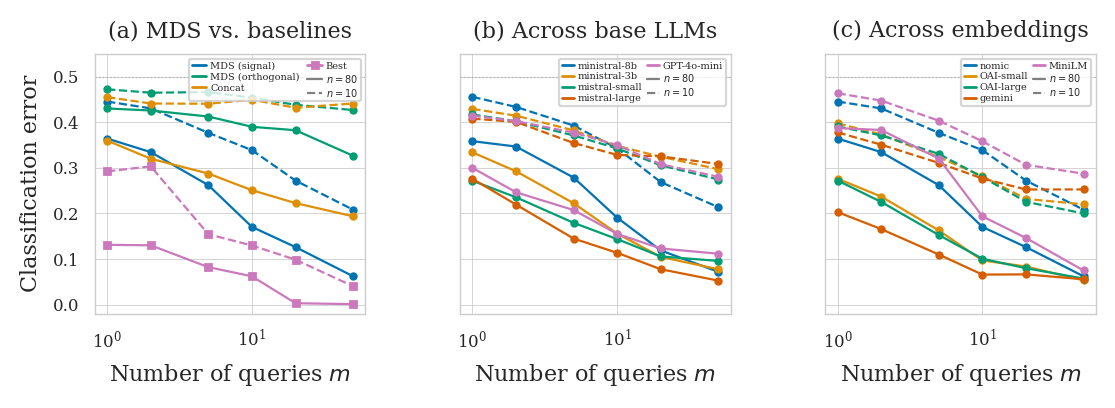
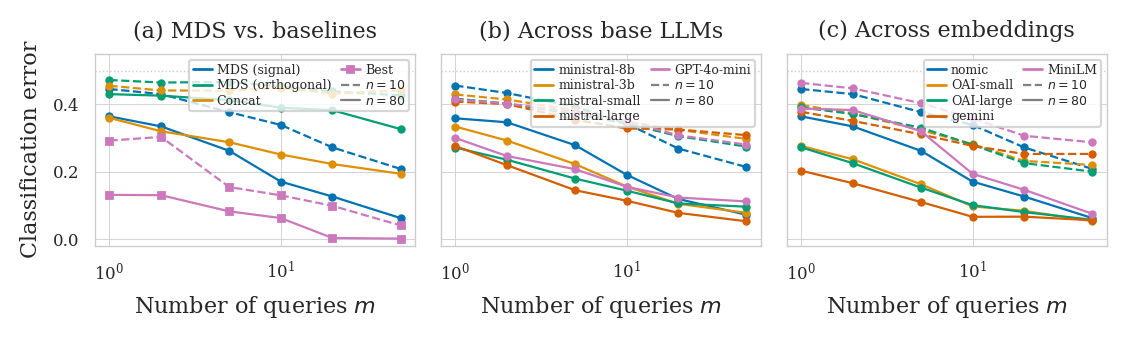
Match figure 4 style to figures 1 & 2
Switch to plt.subplots with matching layout params (figsize 5.5x1.6,
wspace=0.08). Flip legend order to n=10 before n=80. Remove manual
font size overrides, use style.py defaults.

diff --git a/scripts/plot_system_prompt_figure.py b/scripts/plot_system_prompt_figure.py
@@ -13,7 +13,6 @@ import matplotlib
 matplotlib.use("Agg")
 import matplotlib.pyplot as plt
 from matplotlib.lines import Line2D
-from matplotlib.gridspec import GridSpec
 from pathlib import Path
 
 from bbo.plotting.style import set_paper_style, PALETTE
@@ -108,12 +107,8 @@ def plot_figure(csv_path, embed_csv_path=None, oracle_csv_path=None,
 
     df = pd.read_csv(csv_path)
 
-    fig = plt.figure(figsize=(5.5, 2.0))
-    gs = GridSpec(1, 3, figure=fig, left=0.08, right=0.99, bottom=0.20, top=0.85,
-                  wspace=0.35)
-    ax_a = fig.add_subplot(gs[0, 0])
-    ax_b = fig.add_subplot(gs[0, 1])
-    ax_c = fig.add_subplot(gs[0, 2])
+    fig, (ax_a, ax_b, ax_c) = plt.subplots(1, 3, figsize=(5.5, 1.6))
+    fig.subplots_adjust(left=0.07, right=0.99, bottom=0.22, top=0.82, wspace=0.08)
 
     n_styles = {80: "-", 10: "--"}
 
@@ -153,9 +148,9 @@ def plot_figure(csv_path, embed_csv_path=None, oracle_csv_path=None,
     if oracle_csv_path and Path(oracle_csv_path).exists():
         leg_methods.append(Line2D([0], [0], color=PALETTE[4], lw=1, marker="s",
                                   markersize=2, label="Best"))
-    leg_n = [Line2D([0], [0], color="0.5", linestyle=ls, lw=0.8, label=f"$n={n}$")
-             for n, ls in n_styles.items()]
-    ax_a.legend(handles=leg_methods + leg_n, loc="upper right", ncol=2, fontsize=3.5)
+    leg_n = [Line2D([0], [0], color="0.5", linestyle="--", lw=0.8, label="$n=10$"),
+             Line2D([0], [0], color="0.5", linestyle="-", lw=0.8, label="$n=80$")]
+    ax_a.legend(handles=leg_methods + leg_n, loc="upper right", ncol=2)
 
     # ── Center panel: across base models ──
     base_models = [
@@ -197,10 +192,9 @@ def plot_figure(csv_path, embed_csv_path=None, oracle_csv_path=None,
     leg_bm = [Line2D([0], [0], color=PALETTE[i], lw=1, label=bm_label)
               for i, (bm_key, bm_label) in enumerate(base_models)
               if not df_base[df_base["base_model"] == bm_key].empty]
-    leg_n2 = [Line2D([0], [0], color="0.5", linestyle=ls, lw=0.8, label=f"$n={n}$")
-              for n, ls in n_styles.items()]
-    ax_b.legend(handles=leg_bm + leg_n2, loc="upper right", fontsize=3.5,
-                ncol=2, handlelength=1.2, columnspacing=0.5)
+    leg_n2 = [Line2D([0], [0], color="0.5", linestyle="--", lw=0.8, label="$n=10$"),
+              Line2D([0], [0], color="0.5", linestyle="-", lw=0.8, label="$n=80$")]
+    ax_b.legend(handles=leg_bm + leg_n2, loc="upper right", ncol=2)
 
     # ── Right panel: across embedding models ──
     embed_models = [
@@ -240,10 +234,9 @@ def plot_figure(csv_path, embed_csv_path=None, oracle_csv_path=None,
     leg_em = [Line2D([0], [0], color=PALETTE[i], lw=1, label=em_label)
               for i, (_, em_label) in enumerate(embed_models)
               if not df_embed[df_embed["embed_model"] == embed_models[i][0]].empty]
-    leg_n3 = [Line2D([0], [0], color="0.5", linestyle=ls, lw=0.8, label=f"$n={n}$")
-              for n, ls in n_styles.items()]
-    ax_c.legend(handles=leg_em + leg_n3, loc="upper right", fontsize=3.5,
-                ncol=2, handlelength=1.2, columnspacing=0.5)
+    leg_n3 = [Line2D([0], [0], color="0.5", linestyle="--", lw=0.8, label="$n=10$"),
+              Line2D([0], [0], color="0.5", linestyle="-", lw=0.8, label="$n=80$")]
+    ax_c.legend(handles=leg_em + leg_n3, loc="upper right", ncol=2)
 
     Path(output_path).parent.mkdir(parents=True, exist_ok=True)
     fig.savefig(output_path)
